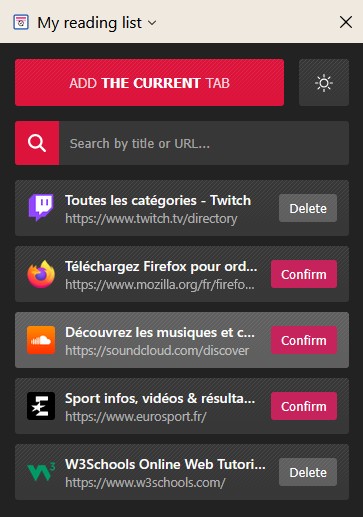
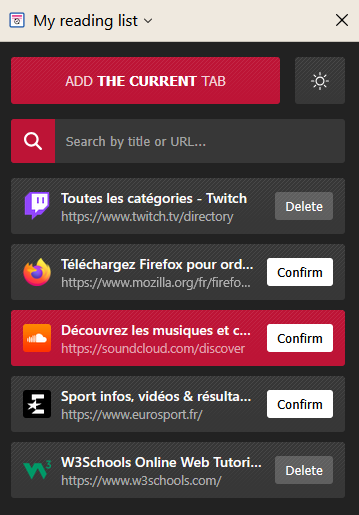
Update

diff --git a/src/css/style.css b/src/css/style.css
@@ -2,13 +2,15 @@
   --primary-color: #222;
   --secondary-color: #373737;
   --secondary-color-hover: #4d4d4d;
-  --third-color: crimson;
+  --third-color: #bd1436;
   --third-color-hover: rgb(236, 14, 59);
   --text-color: #ffffff;
+  --text-color-reverse: #000;
   --list-background-color: var(--secondary-color);
-  --list-background-color-hover: #5f5f5f;
+  --list-background-color-hover: var(--third-color);
   --btn-delete-background-color: rgba(255, 255, 255, 0.2);
   --btn-delete-background-color-hover: rgba(255, 255, 255, 0.3);
+  --confirmDelete: #fff;
   --background-pattern: url(../images/pattern_white.png);
 }
 
@@ -19,10 +21,12 @@
   --third-color: black;
   --third-color-hover: #0067de;
   --text-color: #000;
+  --text-color-reverse: #fff;
   --list-background-color: var(--secondary-color);
   --list-background-color-hover: #ffe494;
   --btn-delete-background-color: rgba(255,255,255,.8);
   --btn-delete-background-color-hover: rgba(255,255,255,1);
+  --confirmDelete: #c6225b;
   --background-pattern: url(../images/pattern_black.png);
 }
 
@@ -219,8 +223,8 @@ header {
 }
 
 .confirmDelete, .confirmDelete:hover {
-  background-color: #c6225b;
-  color: #fff;
+  background-color: var(--confirmDelete);
+  color: var(--text-color-reverse);
 }
 
 #add {
